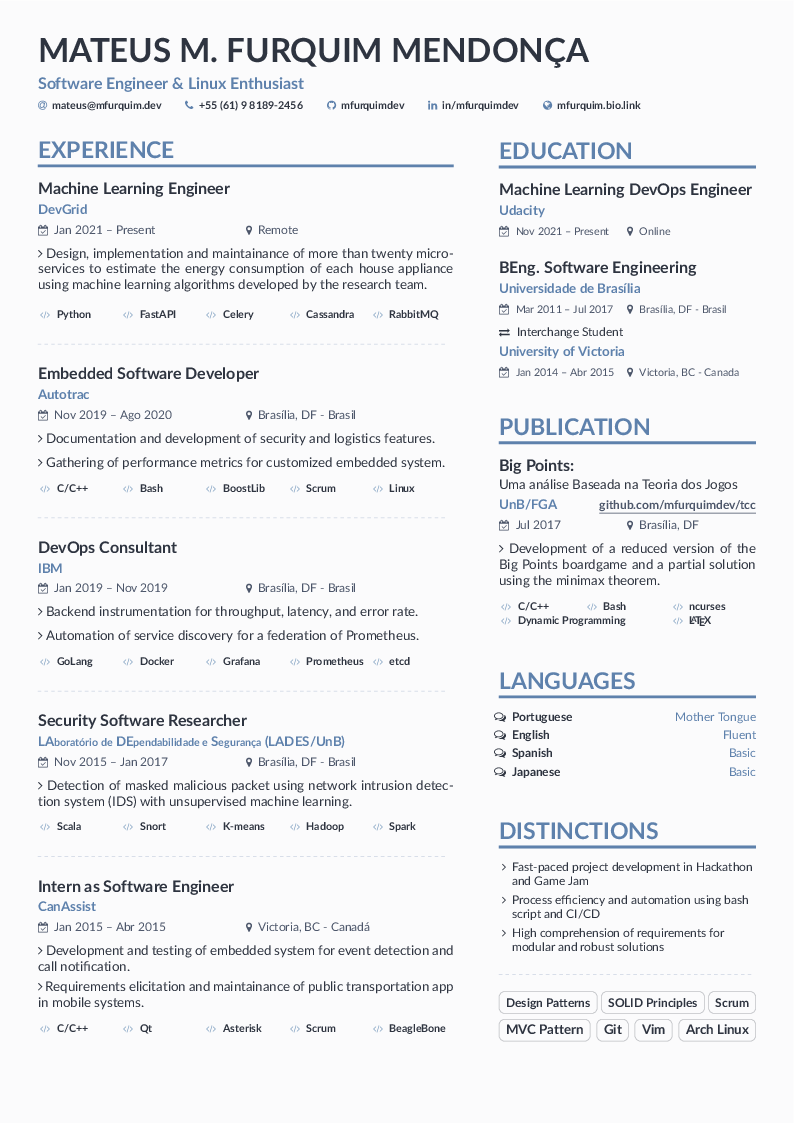
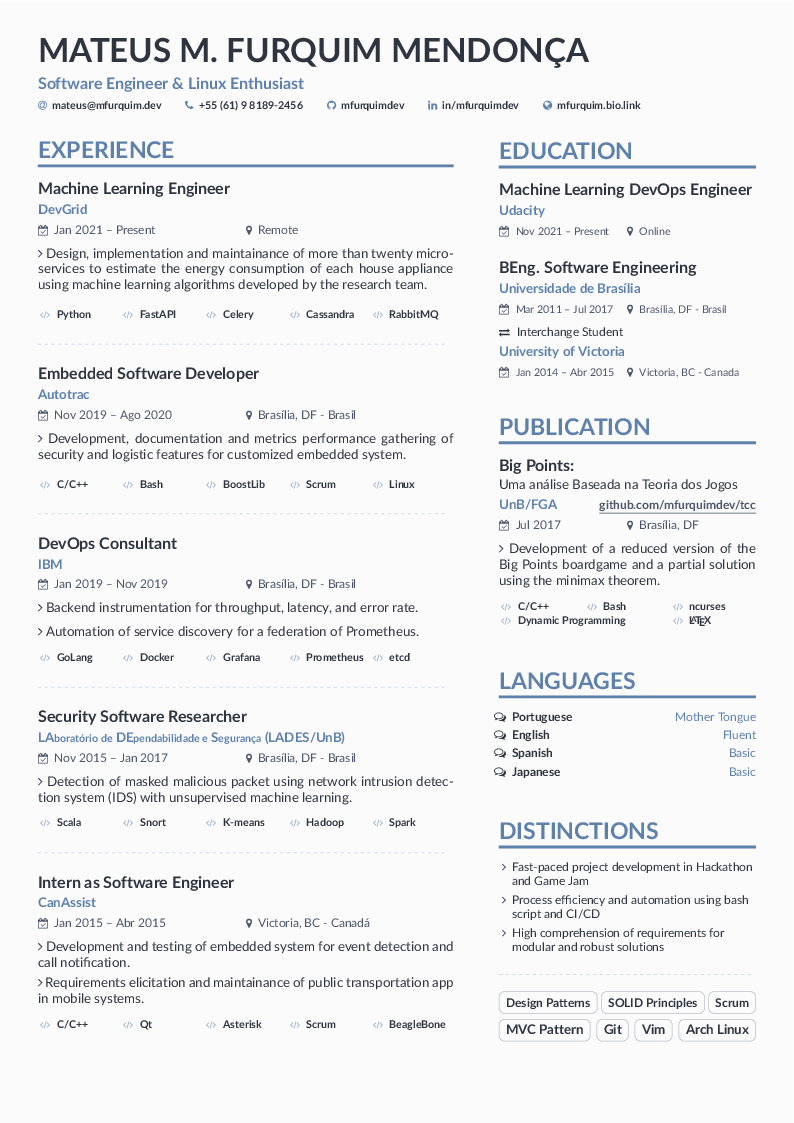
Improve Autotrac description

diff --git a/resume/main.tex b/resume/main.tex
@@ -56,7 +56,6 @@
 
 \cvsection[page1sidebar]{\kern-.6em Experience}
 
-%% Autotrac - Desenvolvedor de Software Embarcado
 \cvevent{Machine Learning Engineer}{\href{https://devgrid.co.uk/}{DevGrid}}{Jan 2021 -- Present}{Remote}
 
 
@@ -84,13 +83,10 @@ Design, implementation and maintainance of more than twenty microservices to est
 \cvevent{Embedded Software Developer}{\href{https://www.autotrac.com.br/}{Autotrac}}{Nov 2019 -- Ago 2020}{Brasília, DF - Brasil}
 
 {\smallskip\justifying
-{\faAngleRight} {\color{description}Documentation and development of security and logistics features.}
+{\faAngleRight} {\color{description}
+Development, documentation and metrics performance gathering of security and logistic features for customized embedded system.
 \par}
 \smallskip
-
-{\smallskip\justifying
-{\faAngleRight} {\color{description}Gathering of performance metrics for customized embedded system.}
-\par}
 
 
 \vspace{-0.5mm}
